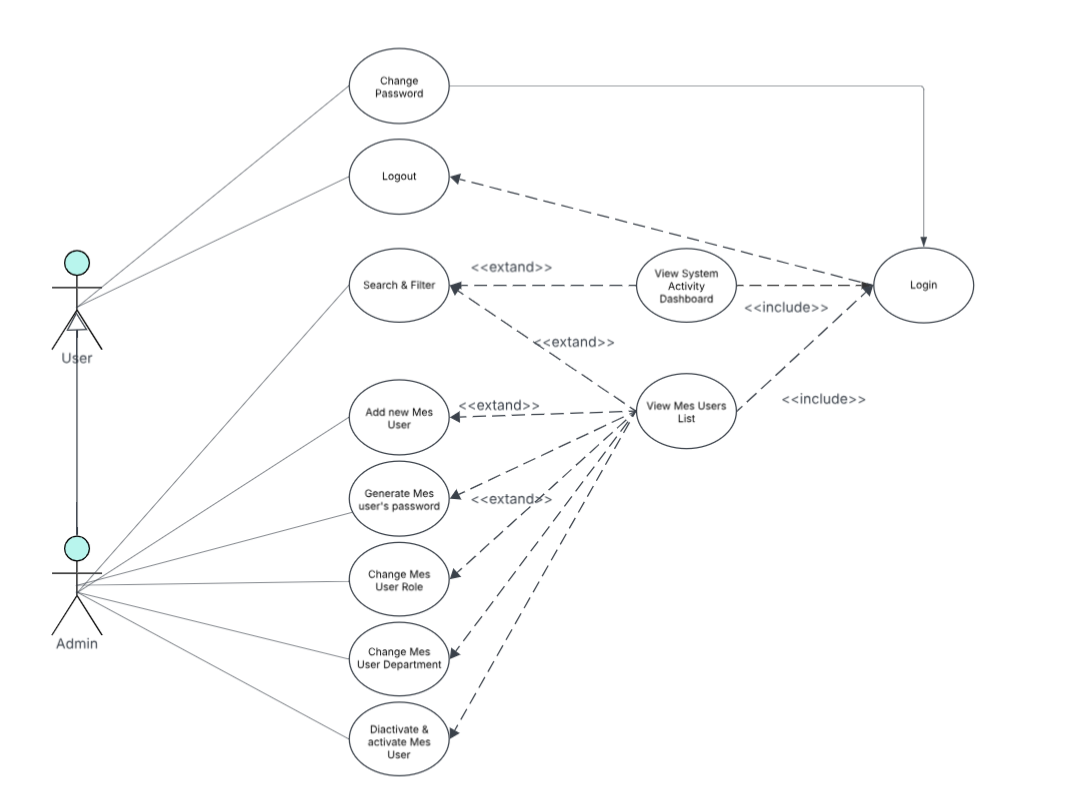
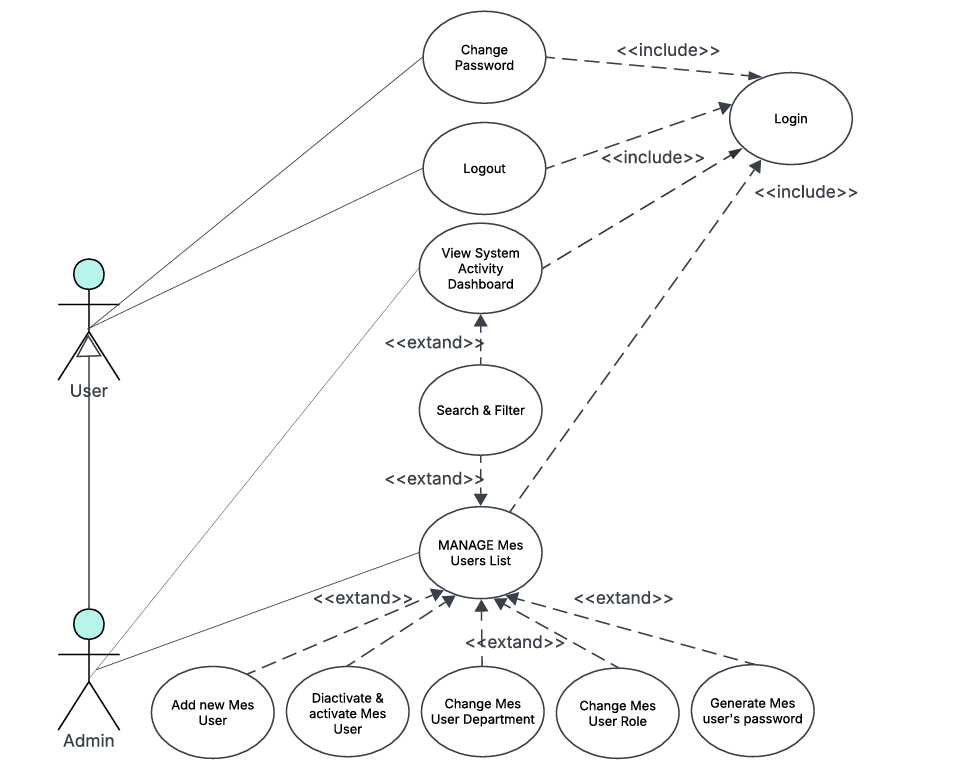
updated some sequence diagrams and added the new class and usecase diagrams to all the sprints
[sync_sprints:auto]

diff --git a/source/sprint2.tex b/source/sprint2.tex
@@ -153,8 +153,7 @@ This sprint covers \textbf{Domain 2:}
   production.
   & \noindent\textit{Business Central (AL):}
   \begin{itemize}[noitemsep, topsep=0pt, partopsep=0pt, leftmargin=*]
-    \item Created function \texttt{fetchOperationsStatusAndProgress()} in codeunit \techname{MES Machine Fetch}.
-    \item Exposed \texttt{fetchOperationsStatusAndProgress()} in codeunit \techname{MES Web Service}.
+    \item Created function \texttt{fetchOperationsStatusAndProgress()} in codeunit \techname{MES Machine Fetch} and Exposed it in codeunit \techname{MES Web Service}.
   \end{itemize}
 \\ & &
   \noindent\textit{Flutter:}
@@ -275,7 +274,7 @@ This sprint covers \textbf{Domain 2:}
 
 \begin{figure}[H]
   \centering
-  \includegraphics[width=6in]{./media/MES_Sprint-2-Repport/diagrams/useCase/sprint2.png}
+  \includegraphics[width=\linewidth,keepaspectratio]{./media/MES_Sprint-2-Repport/diagrams/useCase/sprint2.png}
   \caption{UML Use Case Diagram --- Machine \& Production Management.}
   \label{fig:s2-use-case-diagram-s2}
 \end{figure}
@@ -305,7 +304,6 @@ textual description of the \textit{Start Operation} use case.
   \midrule
   \endhead
   
-  \midrule
   \multicolumn{2}{r}{\small Continued on next page}\\
   \endfoot
   
@@ -355,15 +353,7 @@ textual description of the \textit{Start Operation} use case.
 \end{longtable}
 
 \subsection{Sequence Diagrams}
-
-The following sequence diagrams illustrate the communication flow between the
-\techname{Flutter} frontend, the \techname{Business Central} OData layer, and the
-\techname{AL} business logic for each machine and operation flow.
-
-Figure~\ref{fig:s2-seq-fetch-machines} shows the fetch machines flow.
-Figure~\ref{fig:s2-seq-machine-orders} illustrates the get machine orders flow.
-Figure~\ref{fig:s2-seq-start-operation} depicts the start operation flow.
-Figure~\ref{fig:s2-seq-fetch-ops-status} presents the fetch operations status flow.
+the following figures demonstrate the sequence diagrams of the sprint 2 \{[to-be-updated]: need a more detailed preamble and a smaller one dedicated to each diagram, kil madame chaabani ta3tina eld'accord final 3al diagrams\}
 
 \begin{figure}[H]
   \centering
@@ -374,13 +364,12 @@ Figure~\ref{fig:s2-seq-fetch-ops-status} presents the fetch operations status fl
 
 %=====SD-09==========================================================
 % sequenceDiagram
-%     actor User
 %     participant Flutter
 %     participant AL
 %     participant BC
 
 %     rect rgb(220,235,255)
-%         Note over User,BC: ref SD-01 — user is logged in workCenterIds resolved from userData;
+%         Note over Flutter,BC: ref SD-01 — user is logged in workCenterIds resolved from userData;
 %     end
 
 %     loop Every 5 seconds per work center
@@ -395,7 +384,6 @@ Figure~\ref{fig:s2-seq-fetch-ops-status} presents the fetch operations status fl
 %         end
 %         AL-->>Flutter: request response
 %         Flutter->>Flutter: Rebuild MachineCard grid
-%         Flutter-->>User: Updated machine list
 %     end
 %====================================================================
 
@@ -482,25 +470,57 @@ Figure~\ref{fig:s2-seq-fetch-ops-status} presents the fetch operations status fl
 
 \begin{figure}[H]
   \centering
-  \includegraphics[height=0.30\textheight,keepaspectratio]{./media/MES_Sprint-2-Repport/placeholder-image.png}
-  \caption{Fetch Operation progress --- Sequence Diagram.}
+  \includegraphics[width=\linewidth,height=0.82\textheight,keepaspectratio]{./media/MES_Sprint-2-Repport/diagrams/sequence/fetch-operation-progress.png}
+  \caption{SD-23: Fetch Operation progress.}
   \label{fig:s2-seq-fetch-progress}
 \end{figure}
 
+%=====SD-23==========================================================
+% sequenceDiagram
+%   participant Flutter
+%   participant AL as AL Extension
+%   participant BC as Business Central
+
+%   rect rgb(220,240,200)
+%     Note over Flutter, BC: ref SD-11 — operation was started executionId is known
+%   end
+%   loop On trigger or every 5 s
+%     Flutter->>AL: fetchOngoingOperationsState request
+%     AL->>BC: Get Operations by machine
+%     AL->>BC: Get current state of each operation
+%     AL->>BC: get total Qte made per operation
+%     BC-->>AL: Operation info
+%     AL-->>Flutter: Operations data per machine
+%   end
+%====================================================================
+
 \begin{figure}[H]
   \centering
-  \includegraphics[height=0.30\textheight,keepaspectratio]{./media/MES_Sprint-2-Repport/placeholder-image.png}
-  \caption{Fetch Operation History --- Sequence Diagram.}
+  \includegraphics[width=\linewidth,height=0.82\textheight,keepaspectratio]{./media/MES_Sprint-2-Repport/diagrams/sequence/fetch-operation-history.png}
+  \caption{SD-24: Fetch Operation History}
   \label{fig:s2-seq-fetch-history}
 \end{figure}
 
-Figure~\ref{fig:s2-seq-fetch-history} shows the history retrieval sequence. The
-\techname{Flutter} frontend calls the same
-\apiendpoint{fetchOperationsStatusAndProgress} endpoint used by the active
-monitoring view, but with \texttt{fetchFinished = true}. The
-\techname{Business Central} backend returns only executions whose latest status
-record is \domainterm{Finished} or \domainterm{Cancelled}, along with resolved
-start and end timestamps.
+%=====SD-24==========================================================
+% sequenceDiagram
+%   actor User
+%   participant Flutter
+%   participant AL as AL Extension
+%   participant BC as Business Central
+
+%   rect rgb(200,220,240)
+%     note over Flutter,BC: ref: ref SD-01 — user is logged in and holds a valid token
+%   end
+%   User->>Flutter: open the machineDetailPage
+%   Flutter->>AL: fetchOperationsHistory request
+%   AL->>BC: get machine operations
+%   AL->>BC: get finished and cancelled operations
+%   AL->>BC: get production quantities
+%   AL->>BC: get start/end times
+%   BC-->>AL: Historical operation rows
+%   AL-->>Flutter: completed operations data
+%   Flutter->>User: show the operations history
+%====================================================================
 
 \subsection{Class Diagram}
 
@@ -512,7 +532,7 @@ production management domain shows the \modulename{MES Machine Status} and
 
 \begin{figure}[H]
   \centering
-  \includegraphics[width=\linewidth,height=0.82\textheight,keepaspectratio]{./media/MES_Sprint-2-Repport/diagrams/class/sprint2-diagram.png}
+  \includegraphics[width=\linewidth,keepaspectratio]{./media/MES_Sprint-2-Repport/diagrams/class/sprint2.png}
   \caption{UML Class Diagram --- Machine \& Production Management.}
   \label{fig:s2-class-diagram-s2}
 \end{figure}

diff --git a/source/sprint3.tex b/source/sprint3.tex
@@ -582,19 +582,60 @@ need to update
 \begin{figure}[H]
   \centering
   \includegraphics[width=\linewidth,height=0.82\textheight,keepaspectratio]{./media/MES_Sprint-3-Repport/diagrams/sequence/fetch-BOM.png}
-  \caption{Sequence Diagram --- Fetch Bill of Materials.}
+  \caption{SD-21: Fetch Bill of Materials.}
   \label{fig:s3-seq-fetch-bom}
 \end{figure}
+
+%=====SD-21==========================================================
+% sequenceDiagram
+%     participant Flutter
+%     participant AL as AL Extension
+%     participant BC as Business Central
+
+%     rect rgb(220,240,200)
+%         Note over Flutter,BC: ref SD-11 — operation was started executionId is available
+%     end
+
+%     loop On trigger
+%       Flutter->>AL: fetchBom request
+%       AL->>BC: Get MES Operation Execution
+%       AL->>BC: Get ProdOrderRoutingLine — routingLinkCode
+%       AL->>BC: Loop ProdOrderComponents filtered by routing link
+%       AL->>BC: Sum Qte scanned per item
+%       AL->>BC: Resolve QtyPerUnit from ItemUnitOfMeasure
+%       BC-->>AL: BOM rows
+%       AL-->>Flutter: components JSON
+%     end
+%====================================================================
 
 need to update
 
 \begin{figure}[H]
   \centering
   \includegraphics[width=\linewidth,height=0.82\textheight,keepaspectratio]{./media/MES_Sprint-3-Repport/diagrams/sequence/fetch-production-cycle.png}
-  \caption{Sequence Diagram --- Fetch Production Cycles.}
+  \caption{SD-22: Fetch Production Cycles.}
   \label{fig:s3-seq-fetch-production-cycle}
 \end{figure}
 
+%=====SD-22==========================================================
+% sequenceDiagram
+%     participant Flutter
+%     participant AL as AL Extension
+%     participant BC as Business Central
+
+%     rect rgb(220,240,200)
+%         Note over Flutter,BC: ref SD-11 — operation was started executionId is available
+%     end
+
+%     loop On trigger
+%       Flutter->>AL: fetchProductionCycles request
+%       AL->>BC: Get Operation
+%       AL->>BC: Get operation progress history 
+%       AL->>BC: Get User names
+%       BC-->>AL: Cycle list
+%       AL-->>Flutter: cycles JSON
+%     end
+%====================================================================
 
 Figures~\ref{fig:s3-seq-pause-operation} through~\ref{fig:s3-seq-cancel-operation}
 illustrate the remaining operation lifecycle transition flows: pause, resume,
@@ -883,25 +924,17 @@ or an empty response when the operation is finished, cancelled, or not yet start
 %         BC-->>AL: operation data
 %         AL-->>Flutter: operation data
 %     and Production cycles stream
-%         Flutter->>AL: fetchProductionCycles request
-%         AL->>BC: Get MES Operation Execution
-%         AL->>BC: Loop MES Operation Progression DESC
-%         BC-->>AL: cycles list
-%         AL-->>Flutter: cycles data
+%         rect rgb(220,235,255)
+%             Note over Flutter,BC: ref SD-21 — Production cycle stream need to have been started
+%         end
 %     and BOM stream
-%         Flutter->>AL: fetchBom equest
-%         AL->>BC: Get MES Operation Execution
-%         AL->>BC: Get ProdOrderRoutingLine — routingLinkCode
-%         AL->>BC: Loop ProdOrderComponents filtered by routing link
-%         AL->>BC: Sum MES Component Consumption per itemNo
-%         AL->>BC: Resolve QtyPerUnit from ItemUnitOfMeasure
-%         BC-->>AL: BOM rows with planned and scanned quantities
-%         AL-->>Flutter: components data
+%         rect rgb(220,235,255)
+%             Note over Flutter,BC: ref SD-22 - BOM stream need to have been started
+%         end
 %     end
 
 %     Flutter->>Flutter: Merge liveData into operationData, render all widgets
 %     Flutter-->>User: all data is visible
-%     Note over Flutter,BC: Any write (SD-12 to SD-17) calls triggerRefresh() — all three streams re-fetch automatically
 %====================================================================
 
 
@@ -921,7 +954,7 @@ model.
 
 \begin{figure}[H]
   \centering
-  \includegraphics[width=\linewidth,height=0.82\textheight,keepaspectratio]{./media/MES_Sprint-3-Repport/placeholder-image.png}
+  \includegraphics[width=\linewidth,keepaspectratio]{./media/MES_Sprint-3-Repport/diagrams/class/sprint3.png}
   \caption{UML Class Diagram --- Production Execution \& Traceability.}
   \label{fig:s3-class-diagram-s3}
 \end{figure}
@@ -933,7 +966,7 @@ model.
 
 \subsection{Backend Implementation}
 \subsubsection{Tables and Entities}
-\needspace{10\baselineskip}
+
 \begin{longtable}{@{} P{0.21\linewidth} P{0.17\linewidth} P{0.57\linewidth} @{}}
 	\caption{MES Operation Execution (Table 50110) --- Field Dictionary}
 	\label{tab:s3-table-execution} \\
@@ -945,6 +978,7 @@ model.
 	\textbf{Name} & \textbf{Type} & \textbf{Description} \\
 	\midrule
 	\endhead
+	
 	\multicolumn{3}{r}{\small Continued on next page} \\
 	\endfoot
 	\bottomrule

diff --git a/source/sprint1.tex b/source/sprint1.tex
@@ -248,7 +248,7 @@ use cases available exclusively to the \userrole{Administrator}.
 	\label{fig:s1-use-case-diagram}
 \end{figure}
 
-\Needspace{15\baselineskip}
+\Needspace{10\baselineskip}
 \subsection{Textual Use Case Description}
 
 \begin{longtable}{@{} P{0.22\linewidth} P{0.78\linewidth} @{}}
@@ -620,7 +620,7 @@ attributes and associations.
 
 \begin{figure}[H]
 	\centering
-	\includegraphics[width=6in]{./media/MES_Sprint-1-Repport/placeholder-image.png}
+	\includegraphics[width=\linewidth,keepaspectratio]{./media/MES_Sprint-1-Repport/diagrams/class/sprint1.png}
 	\caption{UML Class Diagram.}
 	\label{fig:s1-class-diagram}
 \end{figure}
@@ -842,37 +842,40 @@ consisting of Screens and Widgets; a \textbf{\domainterm{State Management Layer}
 built on Providers; a \textbf{\domainterm{Service Layer}} for API communication;
 and a \textbf{\domainterm{Model Layer}} for Data Models.
 
-The data flow follows a unidirectional pattern from the \domainterm{UI Layer}
-through the \domainterm{State Management Layer} (\modulename{Provider} pattern)
-and \domainterm{Service Layer} to the \techname{Business Central} REST API backend,
-as illustrated in Figure~\ref{fig:s1-flutter-architecture}.
 
-\begin{figure}[H]
-	\centering
-	\includegraphics[width=2.71913in]{./media/MES_Sprint-1-Repport/image13.png}
-	\caption{\techname{Flutter} layered architecture.}
-	\label{fig:s1-flutter-architecture}
-\end{figure}
+\noindent
+\begin{minipage}[t]{0.6\textwidth}
+	The data flow follows a unidirectional pattern from the \domainterm{UI Layer}
+	through the \domainterm{State Management Layer} (\modulename{Provider} pattern)
+	and \domainterm{Service Layer} to the \techname{Business Central} REST API backend,
+	as illustrated in Figure~\ref{fig:s1-flutter-architecture-s1}.
+	\subsubsection{Service Layer (API Communication)}
 
-\subsubsection{Service Layer (API Communication)}
+	The \domainterm{Service Layer} is responsible for handling all \domainterm{HTTP}
+	communication between \techname{Flutter} and the \techname{Business Central} backend.
 
-The \domainterm{Service Layer} is responsible for handling all \domainterm{HTTP}
-communication between \techname{Flutter} and the \techname{Business Central} backend.
+	Two services were implemented: the \modulename{api\_service} manages
+	authentication requests such as \uilabel{login}, \uilabel{logout}, and
+	\uilabel{password change}, while the \modulename{mes\_user\_service} handles MES
+	user operations including fetching and creating new users.
 
-Two services were implemented: the \modulename{api\_service} manages
-authentication requests such as \uilabel{login}, \uilabel{logout}, and
-\uilabel{password change}, while the \modulename{mes\_user\_service} handles MES
-user operations including fetching and creating new users.
+	\textbf{\modulename{api\_service.dart}}
 
-\textbf{\modulename{api\_service.dart}}
+	The class declaration and constructor show the base URL configuration and
+	\domainterm{HTTP} client initialisation used by all authentication endpoints.
+	The \uilabel{login} method sends user credentials and device ID to the \apiendpoint{/login} endpoint and parses the returned session token, role, and \domainterm{needChangePassword} flag. The \uilabel{logout} method sends the active session token to the \apiendpoint{/logout} endpoint to trigger server-side token revocation.
 
-The class declaration and constructor show the base URL configuration and
-\domainterm{HTTP} client initialisation used by all authentication endpoints.
-The \uilabel{login} method sends user credentials and device ID to the
-\apiendpoint{/login} endpoint and parses the returned session token, role, and
-\domainterm{needChangePassword} flag. The \uilabel{logout} method sends the active
-session token to the \apiendpoint{/logout} endpoint to trigger server-side token
-revocation. The \uilabel{change password} method submits the current password,
+\end{minipage}
+\hfill
+\begin{minipage}[t]{0.38\textwidth}
+  \vspace{0pt}
+  \centering
+  \includegraphics[width=\linewidth,keepaspectratio]{./media/MES_Sprint-1-Repport/image13.png}
+  \captionof{figure}{\techname{Flutter} layered architecture.}
+  \label{fig:s1-flutter-architecture-s1}
+\end{minipage}
+
+The \uilabel{change password} method submits the current password,
 new password, and session token to the \apiendpoint{/changePassword} endpoint.
 Shared error-handling and response-parsing utilities are used by all methods in
 the service class to propagate structured exceptions to the

diff --git a/source/sprint4.tex b/source/sprint4.tex
@@ -328,6 +328,15 @@ the Sprint~1--3 tables, and returns a JSON array.
 %     Flutter-->>User: activity table
 %====================================================================
 
+\subsection{Class Diagram}
+
+\begin{figure}[H]
+	\centering
+	\includegraphics[width=\linewidth,keepaspectratio]{./media/MES_Sprint-4-Report/diagrams/class/sprint4.png}
+	\caption{UML Class Diagram.}
+	\label{fig:s4-class-diagram}
+\end{figure}
+
 % ---------------------------------------------------------------------------
 % 4. IMPLEMENTATION
 % ---------------------------------------------------------------------------
